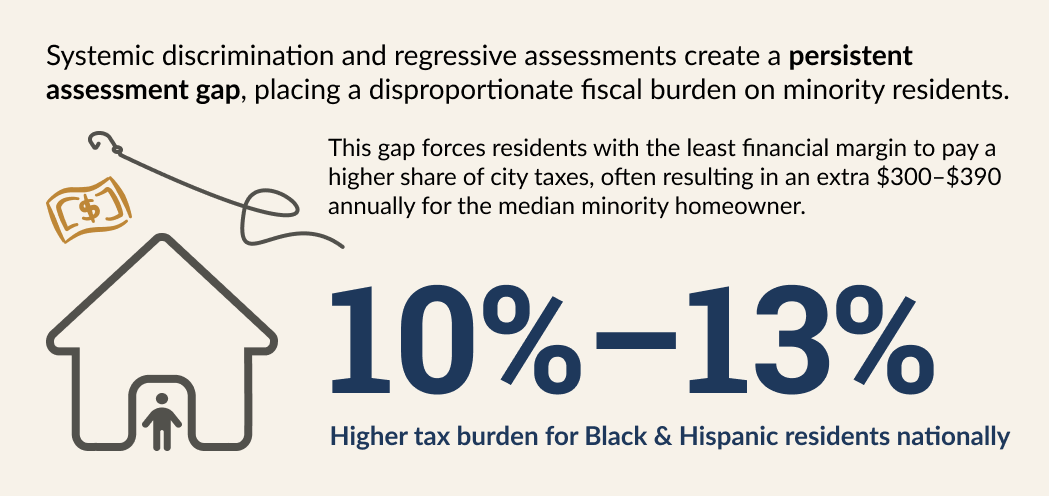
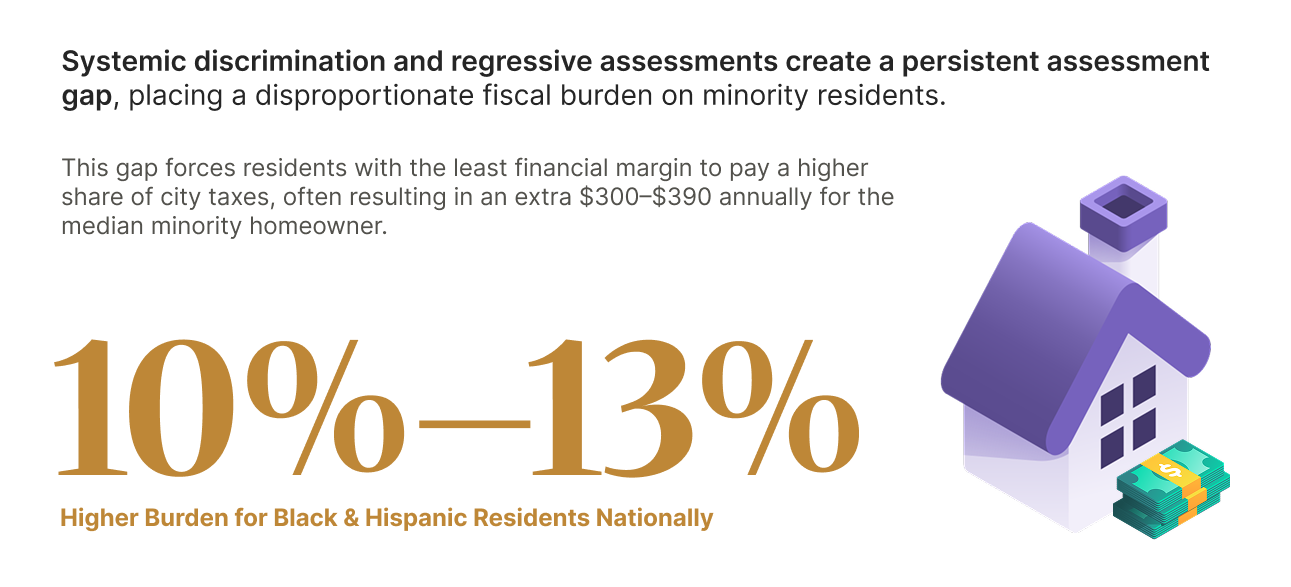
content and styling updates

Changed region(s): [[0.0305, 0.2722, 0.9762, 0.9375], [0.0305, 0.0907, 0.9762, 0.2117]]

diff --git a/index.html b/index.html
@@ -3,7 +3,7 @@
 <head>
   <meta charset="UTF-8">
   <meta name="viewport" content="width=device-width, initial-scale=1.0">
-  <title>Housing Taxes in Philadelphia</title>
+  <title>The Hidden Cost of Home Ownership</title>
   <link rel="preconnect" href="https://fonts.googleapis.com">
   <link rel="preconnect" href="https://fonts.gstatic.com" crossorigin>
   <link href="https://fonts.googleapis.com/css2?family=Merriweather:ital,wght@0,400;0,700;1,400&family=Merriweather+Sans:wght@300;400;600&display=swap" rel="stylesheet">
@@ -15,8 +15,8 @@
   <!-- HERO HEADING -->
   <section class="section-dark">
     <div class="wrap center">
-      <p class="hero-title">The Property Tax Assessment Gap</p>
-      <p class="hero-deck">In Philadelphia, Pennsylvania</p>
+      <p class="hero-title">The Hidden Cost of Home Ownership</p>
+      <p class="hero-deck">How Philadelphia's property tax system values some neighborhoods differently than others</p>
     </div>
   </section>
 
@@ -29,31 +29,32 @@
 
   <!-- HOME VALUE -->
   <section class="section-gray">
-    <div class="wrap center">
-      <p class="display"><strong>More than a structure. More than an address.</strong></p>
-      <p class="display">We call it 'home,' but how do we define what it is actually worth?</p>
+    <div class="wrap">
+      <h2>More than a structure. More than an address.</h2>
+      <p class="banner-subtitle">We call it 'home,' but how do we define what it is actually worth?</p>
     </div>
   </section>
 
   <!-- HOME VALUE INFOGRAPHIC -->
   <section class="section-white">
     <div class="wrap narrow center">
-      <p>A home holds many kinds of value at once. <strong>It's safety. It's community. It's financial security.</strong></p>
+      <p>A home holds many kinds of value at once. It's safety. It's community. It's financial security.</p>
     </div>
     <div class="wrap">
-      <div class="img-narrow">
+      <div class="img-wide">
         <img src="assests/home-worth.png">
       </div>
     </div>
     <div class="wrap narrow center">
-      <p>In economic terms, however, <strong>it's how much you paid for it.</strong></p>
+      <p>In economic terms, however, it's how much you paid for it.</p>
     </div>
   </section>
 
   <!-- WHAT IS IT REALLY WORTH? -->
   <section class="section-gray">
-    <div class="wrap center">
-      <h2>So what's a home <strong>really</strong> worth?</h2>
+    <div class="wrap">
+      <h2>Two Ways to Value a Home</h2>
+      <p class="banner-subtitle">The two measurements that shape what you owe</p>
     </div>
   </section>
 
@@ -77,21 +78,21 @@
 
   <!-- FAIRNESS -->
   <section class="section-gray">
-    <div class="wrap center">
-      <h2>What makes a property assessment <strong>fair?</strong></h2>
+    <div class="wrap">
+      <h2>The Rules of a Fair Assessment</h2>
+      <p class="banner-subtitle">What fair property assessment looks like in practice</p>
     </div>
   </section>
 
   <section class="section-white">
     <div class="wrap narrow">
-      <p>Assessment standards like those from the International Association of Assessing Officers (IAAO)
-      define what fair should look like:</p>
+      <p>Assessment standards like those from the International Association of Assessing Officers (IAAO) define what fair looks like. Assessments should be:</p>
       <ul>
-        <li><strong>Accuracy:</strong> Assessed values should be close to actual market values.</li>
-        <li><strong>Uniformity:</strong> Similar properties should be assessed similarly.</li>
-        <li><strong>Equity:</strong> No group of homeowners should consistently pay more than their fair share.</li>
+        <li><strong>Accurate:</strong> Assessed values are close to actual market value.</li>
+        <li><strong>Uniform:</strong> Similar homes are assessed similarly.</li>
+        <li><strong>Equitable:</strong> No group of homeowners consistently pay more than their fair share.</li>
       </ul>
-      <p>Fair assessments matter because property taxes fund schools, services, and infrastructure. When assessments are biased or uneven, they distort who carries the cost of the city.</p>
+      <p>When all three hold, property taxes are a neutral reflection of value. Fair assessments matter because property taxes fund schools, services, and infrastructure. When assessments are biased or uneven, they distort who carries the cost of the city. As the data shows, that unevenness is rarely random.</p>
     </div>
   </section>
 
@@ -106,8 +107,9 @@
 
   <!-- PHILADELPHIA -->
   <section class="section-gray">
-    <div class="wrap center">
-      <h2>Meet <strong>Philadelphia, Pennsylvania</strong>, "city of homes"</h2>
+    <div class="wrap">
+      <h2>Philadelphia, City of Homes</h2>
+      <p class="banner-subtitle">A city defined by its neighborhoods</p>
     </div>
   </section>
 
@@ -115,30 +117,34 @@
     <div class="wrap two-col">
       <div id="observablehq-phillyTract-521e89e8"></div>
       <div>
-        <p><strong>Did you know?</strong> Philadelphia earned this nickname in the 19th century because its unique rowhouse culture allowed for one of the highest rates of homeownership in the US.</p>
+        <p>Philadelphia earned the nickname "City of Homes" in the 19th century because its unique rowhouse culture made it have one of the highest rates of homeownership in the US.</p>
       </div>
     </div>
     <div class="wrap narrow">
-      <p>The lines you see drawn on this map demarcate <strong>Census Tracts:</strong> small, relatively permanent geographic subdivisions of a county, usually containing between 1,200 and 8,000 people. They are designed to be homogeneous with respect to population characteristics, economic status, and living conditions.</p>
+      <p>The lines on this map are census tracts: small, relatively permanent, geographic subdivisions of a county, containing between 1,200 to 8,000 people. They are mapped to be homogeneous with respect to population characteristics, economic status, and living conditions.</p>
     </div>
   </section>
 
   <!-- CENSUS -->
   <section class="section-gray">
-    <div class="wrap center">
-      <h2>Why are <strong>census tracts</strong> important?</h2>
+    <div class="wrap">
+      <h2>Mapping the City</h2>
+      <p class="banner-subtitle">Census tracts help us see Philadelphia's patterns up close</p>
     </div>
   </section>
 
   <!-- MAPS — INCOME + RACE -->
   <section class="section-white">
+    <div class="wrap narrow">
+      <p>These two maps tell a consistent story: in Philadelphia, where you live, your income, and your race are closely linked. And as we'll see, so is how your home gets assessed.</p>
+    </div>
     <div class="wrap two-col">
       <div>
-        <p>Tracts can be useful for visualizing demographics like <strong>income:</strong></p>
+        <p>Tracts can be useful for visualizing demographics like income:</p>
         <div id="observablehq-phillyHex-2f481fed"></div>
       </div>
       <div>
-        <p>Or the <strong>racial majority of a population</strong> in a specific area:</p>
+        <p>Or the racial majority of a population in a specific area:</p>
         <div id="observablehq-majorityRaceHex-521e89e8"></div>
       </div>
     </div>
@@ -146,8 +152,9 @@
 
     <!-- FAIR -->
   <section class="section-gray">
-    <div class="wrap center">
-      <h2>Are assessments <strong>fair</strong>?</h2>
+    <div class="wrap">
+      <h2>The Assessment Gap</h2>
+      <p class="banner-subtitle">A pattern emerges across Philadelphia's neighborhoods</p>
     </div>
   </section>
 
@@ -165,9 +172,8 @@
   <!-- DUMBBELL CHART -->
   <section class="section-white">
     <div class="wrap narrow">
-      <p>Home values in Philadelphia tend to cluster by race.</p>
-      <p>The relationship between sale price and assessed value diverge in opposite directions by race!</p>
-      <p>Mouse over the graph to see the exact value of the gaps.</p>
+      <p>When we plot the assessed value against sale price for each tract, colored by racial majority, a clear pattern appears: the gap runs in opposite directions depending on who lives there.</p>
+      <p>In majority-White tracts, assessed values tend to fall below sale prices, so homeowners are paying taxes on less than their home is worth. In majority-Black tracts, it's the opposite, assessed values tend to exceed sale prices, so homeowners are taxed on more than their home is worth.</p>
     </div>
     <div class="wrap flush-top">
       <div id="observablehq-barbelPlot2-521e89e8"></div>
@@ -176,16 +182,17 @@
 
   <!-- ASSESSMENT RATIO EXPLAINER -->
   <section class="section-gray">
-    <div class="wrap center">
-      <h2>Understanding the <strong>Property Assessment Ratio</strong></h2>
+    <div class="wrap">
+      <h2>Measuring the Gap</h2>
+      <p class="banner-subtitle">How the assessment ratio works and what it shows</p>
     </div>
   </section>
 
   <section class="section-white">
     <div class="wrap narrow">
-      <p>When Philadelphia assesses a property, it estimates what that property is worth — this is the assessed value. The <strong>assessment ratio</strong> compares that estimate to what the property actually sold for:</p>
+      <p>When Philadelphia assesses a property, it estimates what that property is worth — this is the assessed value. The assessment ratio compares that estimate to what the property actually sold for:</p>
 
-      <h3>Assessment Ratio = Assessed Value ÷ Sale Price</h3>
+      <h3>Assessment Ratio = Assessed Value / Sale Price</h3>
 
       <div class="ratio-list">
         <div class="ratio-row">
@@ -213,7 +220,10 @@
 
   <!-- DIVERGING BAR CHART -->
   <section class="section-white">
-    <div class="wrap">
+    <div class="wrap narrow">
+      <p>The gaps aren't scattered randomly. They cluster: majority-Black and Hispanic tracts consistently show higher assessment ratios, and majority-White tracts consistently show lower ones.</p>
+    </div>
+    <div class="wrap flush-top">
       <div id="observablehq-lollipopAssessmentGap-521e89e8"></div>
     </div>
   </section>
@@ -221,8 +231,7 @@
   <!-- TIMELINE -->
   <section class="section-white">
     <div class="wrap narrow">
-      <p><strong>In 2019 there was a citywide change in assessment methodology</strong> that sought to recalibrate property values, resulting in a notable convergence of assessment ratios across racial groups.</p>
-      <p>However, following the economic disruptions of COVID-19 and subsequent market shifts, <strong>the city changed the assessment methodology again in 2023 and saw a dramatic bump where ratios surged</strong>, particularly in majority Black and Hispanic tracts, indicating that assessments are once again outpacing market values in these communities.</p>
+      <p>In 2019, a citywide change in assessment methodology sought to recalibrate property values, resulting in a notable convergence of assessment ratios across racial groups. However, the 2023 reassessment reversed that progress. Assessments rose an average of 31% citywide, but that increase was far from uniform: ratios surged to 97% in North Philadelphia East and 73% in North Philadelphia West, compared to just 5% in Center City, indicating that assessments are once again outpacing market values in majority-Black and majority-Hispanic communities.</p>
     </div>
     <div class="wrap flush-top">
       <div id="observablehq-timelineAssessments-521e89e8"></div>
@@ -239,21 +248,24 @@
 
   <!-- CONCLUSION -->
   <section class="section-gray">
-    <div class="wrap center">
-      <h2 class="accent">What does this mean for Philadelphia?</h2>
+    <div class="wrap">
+      <h2>A City of Homes, For Everyone</h2>
+      <p class="banner-subtitle">What fair assessments would mean for Philadelphia</p>
     </div>
   </section>
 
   <section class="section-white">
     <div class="wrap narrow">
-      <p>Placeholder for conclusion.</p>
+      <p>The data is clear: Philadelphia's current assessment methodology functions as a regressive tax. While property taxes are intended to be a neutral reflection of market value, the persistent gap creates a reality where those with the least housing wealth, disproportionately Black and Hispanic homeowners, subsidize the city services of those with the most.</p>
+      <p>When a home in a majority-White tract is under-assessed, that family gains a hidden dividend. When a home in a majority-Black tract is over-assessed, that family faces a hidden penalty. To truly be a City of Homes, Philadelphia must ensure that its measurement of value does not reinforce the very racial and economic disparities it seeks to overcome.</p>
+      <p>Philadelphia has demonstrated that before that it can make the assessment process more equitable. The 2019 reassessment brought ratios closer together across racial groups, showing that fairer outcomes can be reached. What the data calls for now is continued commitment to independent review of assessment practices, transparent public data, and a methodology that is regularly checked for the kinds of disparities this analysis reveals.</p>
     </div>
   </section>
 
   <!-- FOOTER -->
   <footer>
     <div class="wrap center">
-      <p>Developed by Ella Montgomery, Madeleine Melcher, and Chetan Goenka</p>
+      <p>By Ella Montgomery, Madeleine Melcher, and Chetan Goenka</p>
     </div>
   </footer>
 

diff --git a/style.css b/style.css
@@ -23,6 +23,11 @@ body {
 .section-dark  { background: var(--charcoal); }
 .section-white + .section-white { border-top: 1px solid #ece7df; }
 
+.section-gray .wrap {
+  max-width: 800px;
+  text-align: center;
+}
+
 /* ── Hero ── */
 .section-dark .wrap { padding: 6rem 2rem; }
 
@@ -62,7 +67,7 @@ body {
 }
 
 /* ── Typography ── */
-h1, h2 { font-family: var(--serif); font-weight: 400; }
+h1, h2 { font-family: var(--serif); font-weight: 700; }
 
 h1 {
   font-size: clamp(2rem, 5vw, 3.5rem);
@@ -75,6 +80,12 @@ h2 {
   color: var(--charcoal);
 }
 h2.accent { color: var(--maroon); }
+
+.banner-subtitle {
+  font-weight: 700;
+  color: rgba(26, 26, 26, 0.8);
+  font-size: clamp(1rem, 2vw, 1.15rem);
+}
 
 .display {
   font-family: var(--serif);
@@ -99,7 +110,8 @@ ul li { margin-bottom: 0.4rem; }
 .img-wide img { width: 100%; }
 
 /* ── Flush top ── */
-.wrap.flush-top { padding-top: 0; }
+.wrap.flush-top,
+.flush-top .wrap { padding-top: 0; }
 
 /* ── Ratio rows ── */
 .ratio-list { display: flex; flex-direction: column; gap: 0.75rem; margin: 1rem 0 1.5rem; }